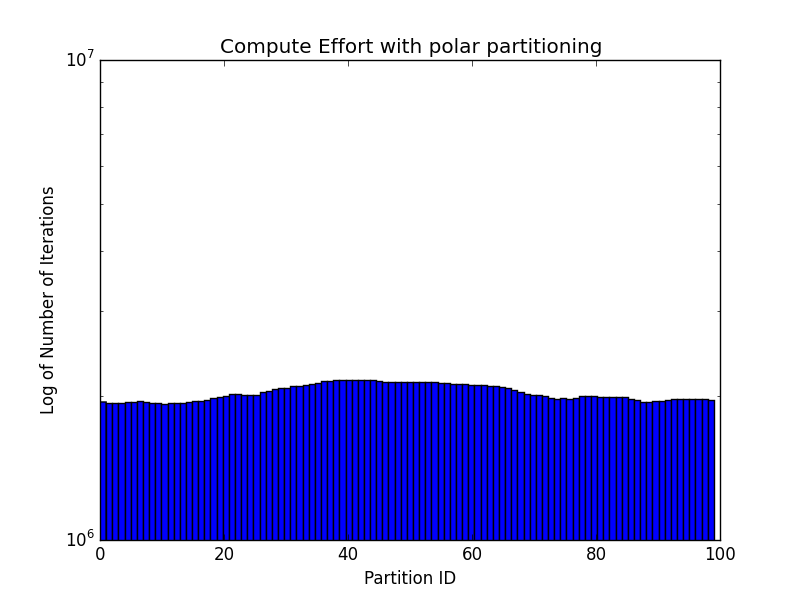
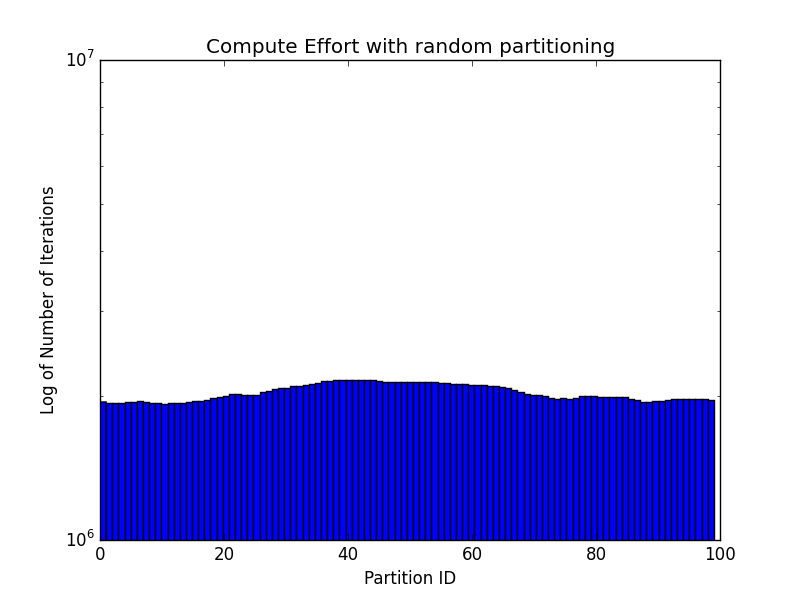
P4,P6 done

Changed region(s): [[0.25, 0.06, 0.7812, 0.09]]

diff --git a/HW1/P6/P6.py b/HW1/P6/P6.py
@@ -1,0 +1,80 @@
+import findspark
+findspark.init('/Users/georgelok/spark')
+
+import pyspark
+sc = pyspark.SparkContext(appName="P6")
+
+lines = sc.textFile('pg100.txt')
+
+words = lines.flatMap(lambda line : line.split())
+
+words.take(10)
+
+def filterWords(word) :
+    if(word.isdigit()) :
+        return False
+    if(word.isalpha() and word.isupper()) :
+        return False
+    if(word[0:-1].isalpha() and 
+       word[0:-1].isupper() and 
+       word[len(word)-1] == '.') :
+        return False
+    return True
+
+new_words = words.filter(filterWords)
+
+words_list = new_words.collect()
+
+new_list =[]
+for i in range(len(words_list) - 2) :
+    el = ((words_list[i], words_list[i+1]), (words_list[i+2], 1))
+    new_list.append(el)
+    
+chain = sc.parallelize(new_list).groupByKey().map(lambda (x, y) : (x,list(y)))
+
+
+def chainMap((pair,words)) :
+    temp = {}
+    for word in words :
+        if word[0] in temp :
+            temp[word[0]] += 1
+        else :
+            temp[word[0]] = 1
+    newWords = []
+    for key, value in temp.iteritems():
+        newWords.append((key,value))
+    return (pair, newWords)
+    
+finalChain = chain.map(chainMap)
+
+from random import randint
+
+def generatePhrase() :
+    wordList = []
+    samples = finalChain.takeSample(True, 1)
+    firstPair, choices = samples[0]
+    wordList.append(firstPair[0])
+    wordList.append(firstPair[1])
+
+    # Choose remaining 20 words
+    for i in range(18) :
+        bins = []
+        for (choice, count) in choices :
+            for j in range(count) :
+                bins.append(choice)
+        index = randint(0,len(bins) - 1)
+        nextWord = bins[index]
+        wordList.append(nextWord)
+        nextPair = (wordList[i+1], nextWord)
+        choicesList = finalChain.lookup(nextPair)
+        assert(len(choicesList) == 1)
+        choices = choicesList[0]
+
+    return wordList
+
+results = []
+for i in range(10):
+    results.append(generatePhrase())
+
+for result in results :
+    print " ".join(result) + "\n"

diff --git a/HW1/P4/P4.py b/HW1/P4/P4.py
@@ -1,0 +1,45 @@
+from P4_bfs import *
+
+import findspark
+findspark.init('/Users/georgelok/spark')
+
+import pyspark
+sc = pyspark.SparkContext(appName="P4")
+
+
+def lineSplitFunction(line) :
+    line = line[1:-1] # Remove unnecessary quotes
+    (a,b) = line.split('","') # Split using this delimter since names/issues have ,
+    return (b,a)
+
+wlist = sc.textFile('source.csv').map(lineSplitFunction) 
+
+comicGroups = wlist.groupByKey() # This gives us cliques
+
+def flatmapFunctor (x) :
+    chars = list(x[1])
+    results = []
+    for char in chars :
+        # Somewhat inefficient, but using remove for some reason was buggy
+        results.append((char, set([x for x in chars if x != char])))
+    return results
+
+# Assign each character to their clique
+allCliques = comicGroups.flatMap(flatmapFunctor) 
+
+# Merge all cliques per character.
+allEdges = (allCliques
+            .reduceByKey(lambda x1, x2 : x1 | x2)
+            .map(lambda x : (x[0], list(x[1]))))
+
+ac1, nodes1 = SSBFS("CAPTAIN AMERICA", allEdges, sc)
+
+ac2, nodes2 = SSBFS("MISS THING/MARY", allEdges, sc)
+
+ac3, nodes3 = SSBFS("ORWELL", allEdges, sc)
+print "CAPTAIN AMERICA: " + str(ac1) + " touched nodes"
+print "MISS THING/MARY: " + str(ac2) + " touched nodes"
+print "ORWELL: " + str(ac3) + " touched nodes"
+
+
+

diff --git a/HW1/P4/P4_bfs.py b/HW1/P4/P4_bfs.py
@@ -1,0 +1,37 @@
+def edgeMap(x) :
+    return (x[0], set(x[1]), -1)
+
+def createMapFunctor(count, nextNodes) :
+    def mapFunctor((k, s, c,)) :
+        if k in nextNodes :
+            # We have the constraint that count is never
+            if c < 0 :
+                return (k, s,count)
+        return (k, s,c)
+    return mapFunctor
+
+def SSBFS(source, graph, sc) :
+    ac = sc.accumulator(0)
+    
+    def reduceFunctor((k1, s1, c1), (k2, s2, c2)) :
+        ac.add(1)
+        return (0, s1 | s2, 0 )
+
+    nodes = graph.map(edgeMap)
+    nextNodes = set([source])
+    count = 0
+    last = 0
+    while len(nextNodes) > 0:
+        last = ac.value
+        nodes = nodes.map(createMapFunctor(count, nextNodes))
+        def filterFunctor(x) :
+            return x[2] == count
+        changedNodes = nodes.filter(filterFunctor)
+    
+        if changedNodes.count() == 0 :
+            break
+        ac.add(1)
+        reduceResult = changedNodes.reduce(reduceFunctor)
+        nextNodes = reduceResult[1]
+        count += 1
+    return ac.value, nodes

diff --git a/HW1/P2/P2b.py b/HW1/P2/P2b.py
@@ -31,6 +31,6 @@ plt.hist(range(len(effort)), 100, weights=effort)
 plt.yscale('log')
 plt.xlabel('Partition ID')
 plt.ylabel('Log of Number of Iterations')
-plt.title('Compute Effort with polar partitioning')
+plt.title('Compute Effort with random partitioning')
 plt.savefig('P2b_hist.png')
 plt.show()
